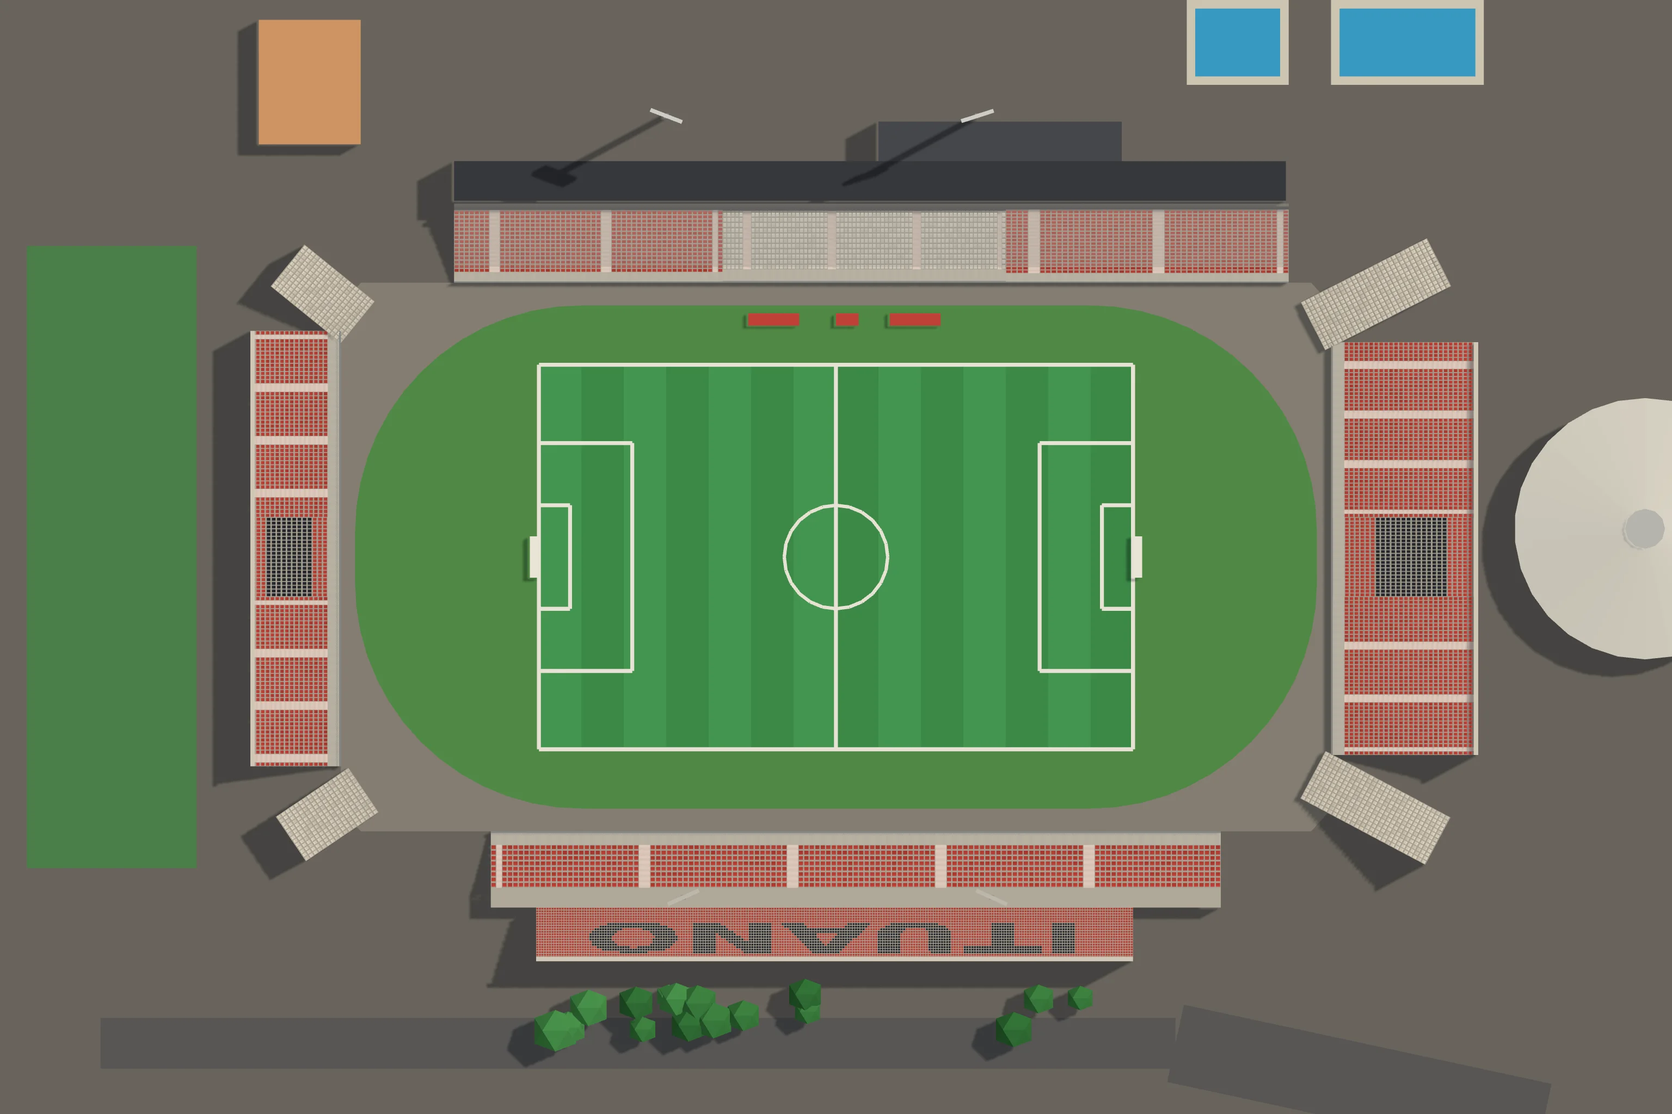
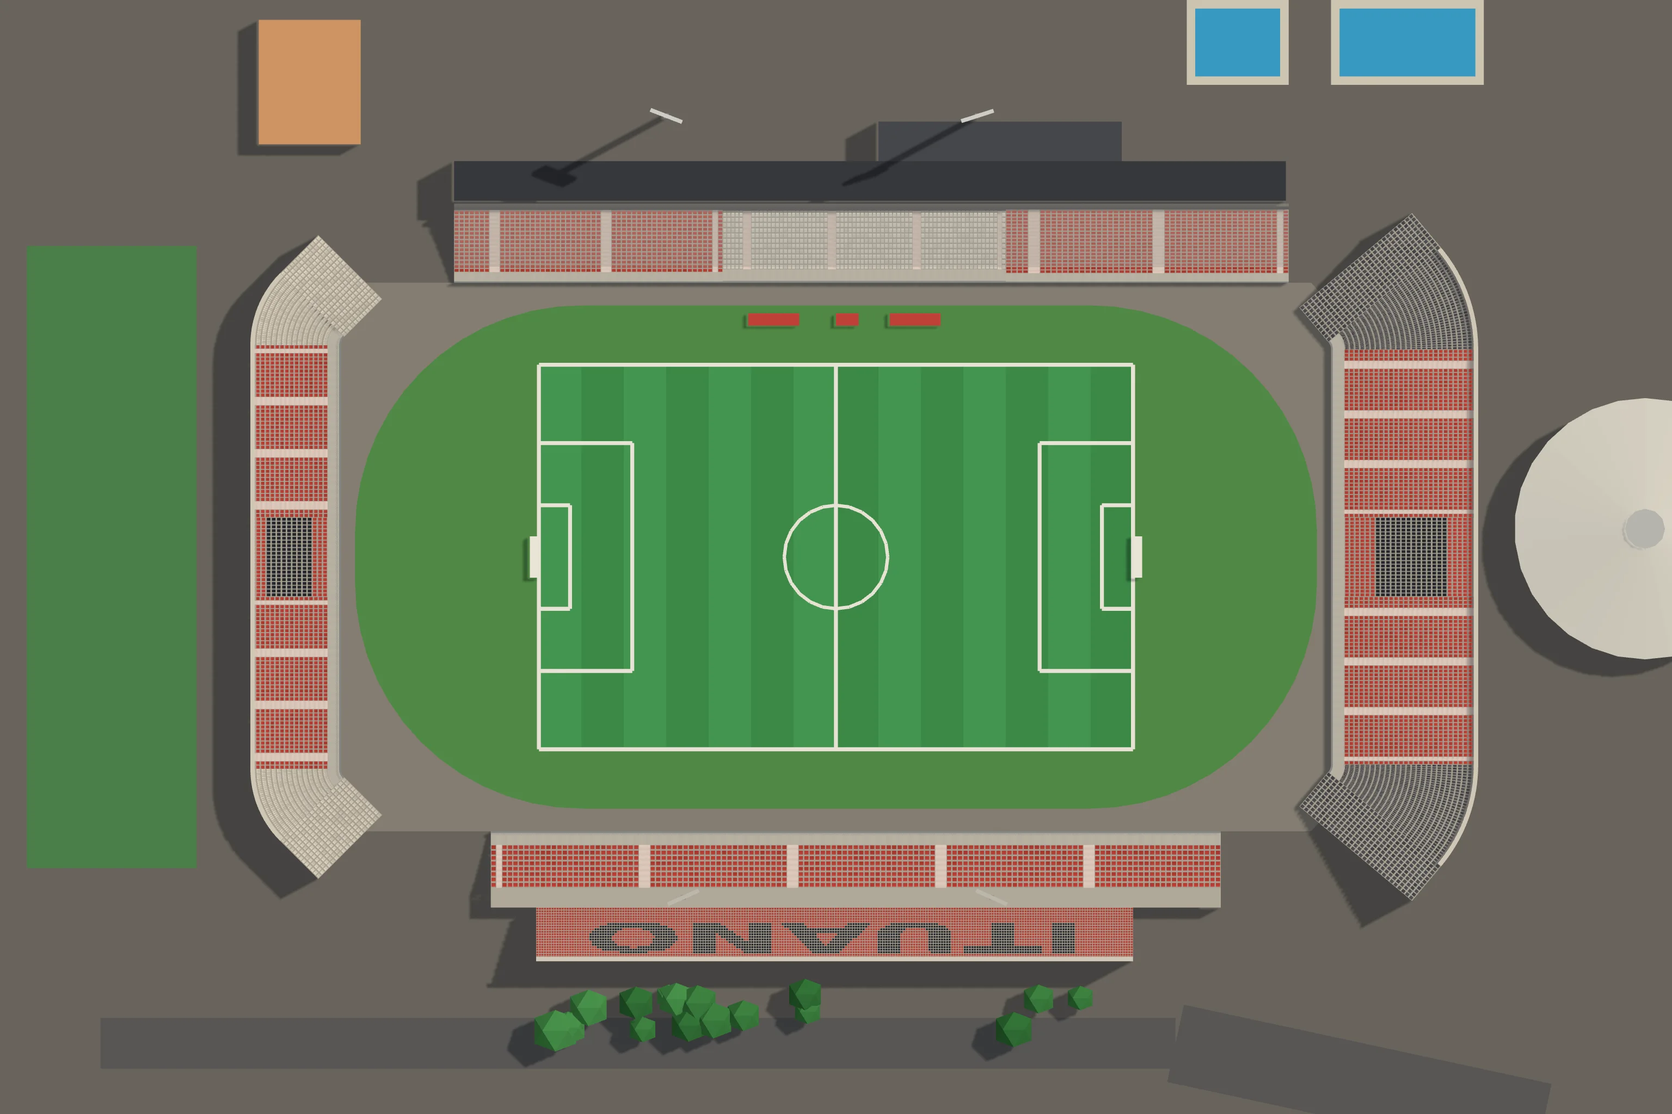
Novelli Júnior: as arquibancadas de trás dos gols como peça única, com as pontas dobradas em direção ao campo
Claude-Session: https://claude.ai/code/session_019hwwMAyyP7ZAvyq6wYTetr

diff --git a/cenario3d/dados/estadios_cenas.js b/cenario3d/dados/estadios_cenas.js
@@ -8368,8 +8368,8 @@ window.__ESTADIOS = {
    "visitante": 3
   },
   "foto": {
-   "imagem": "img/cenas/estadio_novelli_junior.webp?v=b17ea057",
-   "mascara": "384;384;384;384;384;384;384;384;384;384;384;384;384;384;384;384;384;384;384;384;384;384;384;384;384;384;384;384;384;384;384;384;384;384;384;384;384;384;384;384;384;384;384;384;384;384;384;105,191,88;105,191,88;105,191,88;105,191,88;105,191,88;105,191,88;105,191,88;105,191,88;105,191,88;105,191,30,2,56;70,1,34,191,28,4,56;69,3,33,191,26,7,55;68,5,32,191,24,9,55;67,7,31,191,22,12,54;66,10,29,191,20,14,54;66,11,28,191,18,17,53;65,13,27,191,16,19,53;64,15,25,192,14,22,52;63,243,2,24,52;64,266,54;65,263,56;66,260,58;68,83,82,92,59;69,55,136,63,61;70,49,146,56,63;71,45,152,51,65;73,41,156,47,67;74,37,162,42,69;75,34,166,38,71;57,51,168,35,73;57,49,172,31,75;57,47,176,27,77;57,46,178,59,44;57,45,180,58,44;57,43,184,56,44;57,42,186,55,44;57,41,188,54,44;57,40,190,53,44;57,39,192,52,44;57,38,194,51,44;57,37,196,50,44;57,36,198,49,44;57,35,200,48,44;57,35,200,48,44;57,34,202,47,44;57,33,204,46,44;57,32,206,45,44;57,32,206,45,44;57,31,208,44,44;57,31,208,44,44;57,30,210,43,44;57,30,210,43,44;57,29,212,42,44;57,29,212,42,44;57,28,214,41,44;57,28,214,41,44;57,27,216,40,44;57,27,216,40,44;57,27,216,40,44;57,26,218,39,44;57,26,218,39,44;57,26,218,39,44;57,25,220,38,44;57,25,220,38,44;57,25,220,38,44;57,25,220,38,44;57,25,220,38,44;57,24,222,37,44;57,24,222,37,44;57,24,222,37,44;57,24,222,37,44;57,24,222,37,44;57,24,222,37,44;57,24,222,37,44;57,24,222,37,44;57,24,222,37,44;57,24,222,37,44;57,24,222,37,44;57,24,222,37,44;57,24,222,37,44;57,24,222,37,44;57,24,222,37,44;57,24,222,37,44;57,24,222,37,44;57,24,222,37,44;57,24,222,37,44;57,24,222,37,44;57,24,222,37,44;57,24,222,37,44;57,24,222,37,44;57,24,222,37,44;57,24,222,37,44;57,24,222,37,44;57,24,222,37,44;57,24,222,37,44;57,25,220,38,44;57,25,220,38,44;57,25,220,38,44;57,25,220,38,44;57,25,220,38,44;57,26,218,39,44;57,26,218,39,44;57,26,218,39,44;57,27,216,40,44;57,27,216,40,44;57,27,216,40,44;57,28,214,41,44;57,28,214,41,44;57,29,212,42,44;57,29,212,42,44;57,30,210,43,44;57,30,210,43,44;57,31,208,44,44;57,31,208,44,44;57,32,206,45,44;57,32,206,45,44;57,33,204,46,44;57,34,202,47,44;57,35,200,48,44;57,35,200,48,44;57,36,198,49,44;57,37,196,50,44;57,38,194,51,44;57,39,192,52,44;57,40,190,53,44;57,41,188,54,44;57,42,186,21,78;57,43,184,23,77;57,45,180,27,75;78,25,178,29,74;78,26,176,32,72;78,28,172,36,70;77,31,168,40,68;75,34,166,43,66;74,37,162,47,64;72,42,156,52,62;71,45,152,56,60;69,50,146,61,58;68,56,136,67,57;66,85,82,96,55;65,241,2,23,53;65,241,3,23,52;65,241,5,21,52;66,240,7,18,53;67,12,34,167,35,15,54;67,10,36,167,37,13,54;68,8,37,167,39,10,55;69,5,39,167,41,8,55;69,4,40,167,43,5,56;70,1,42,167,44,4,56;113,167,46,1,57;113,167,104;113,167,104;113,167,104;113,167,104;113,167,104;113,167,104;113,167,104;113,167,104;113,167,104;113,167,104;113,167,104;123,137,124;123,137,124;123,137,124;123,137,124;123,137,124;123,137,124;123,137,124;123,137,124;123,137,124;123,137,124;123,137,124;384;384;384;384;384;384;384;384;384;384;384;384;384;384;384;384;384;384;384;384;384;384;384;384;384;384;384;384;384;384;384;384;384;384;384;384"
+   "imagem": "img/cenas/estadio_novelli_junior.webp?v=670985e5",
+   "mascara": "384;384;384;384;384;384;384;384;384;384;384;384;384;384;384;384;384;384;384;384;384;384;384;384;384;384;384;384;384;384;384;384;384;384;384;384;384;384;384;384;384;384;384;384;384;384;384;105,191,88;105,191,88;105,191,88;105,191,27,2,59;105,191,26,4,58;105,191,25,6,57;105,191,24,7,57;105,191,23,9,56;72,2,31,191,21,12,55;71,4,30,191,20,14,54;70,6,29,191,19,14,1,2,52;69,8,28,191,18,14,1,4,51;68,10,27,191,17,14,1,5,51;67,12,26,191,15,15,1,7,50;66,14,25,191,14,15,1,9,49;65,16,24,191,13,14,1,11,49;63,2,1,16,23,191,12,14,1,13,48;62,4,1,16,21,192,11,14,1,14,48;62,5,1,252,1,16,47;61,7,1,250,1,17,47;60,9,1,267,47;60,10,1,245,1,21,46;59,12,1,79,82,82,1,22,46;59,13,1,51,136,54,1,23,46;59,14,1,45,146,48,1,25,45;58,16,1,41,152,71,45;58,17,1,38,156,40,1,28,45;58,18,1,34,162,36,1,29,45;58,19,1,31,166,33,1,30,45;58,50,168,31,1,31,45;57,49,172,28,1,33,44;57,47,176,60,44;57,46,178,59,44;57,45,180,58,44;57,43,184,56,44;57,42,186,55,44;57,41,188,54,44;57,40,190,53,44;57,39,192,52,44;57,38,194,51,44;57,37,196,50,44;57,36,198,49,44;57,35,200,48,44;57,35,200,48,44;57,34,202,47,44;57,33,204,46,44;57,32,206,45,44;57,32,206,45,44;57,31,208,44,44;57,31,208,44,44;57,30,210,43,44;57,30,210,43,44;57,29,212,42,44;57,29,212,42,44;57,28,214,41,44;57,28,214,41,44;57,27,216,40,44;57,27,216,40,44;57,27,216,40,44;57,26,218,39,44;57,26,218,39,44;57,26,218,39,44;57,25,220,38,44;57,25,220,38,44;57,25,220,38,44;57,25,220,38,44;57,25,220,38,44;57,24,222,37,44;57,24,222,37,44;57,24,222,37,44;57,24,222,37,44;57,24,222,37,44;57,24,222,37,44;57,24,222,37,44;57,24,222,37,44;57,24,222,37,44;57,24,222,37,44;57,24,222,37,44;57,24,222,37,44;57,24,222,37,44;57,24,222,37,44;57,24,222,37,44;57,24,222,37,44;57,24,222,37,44;57,24,222,37,44;57,24,222,37,44;57,24,222,37,44;57,24,222,37,44;57,24,222,37,44;57,24,222,37,44;57,24,222,37,44;57,24,222,37,44;57,24,222,37,44;57,24,222,37,44;57,24,222,37,44;57,25,220,38,44;57,25,220,38,44;57,25,220,38,44;57,25,220,38,44;57,25,220,38,44;57,26,218,39,44;57,26,218,39,44;57,26,218,39,44;57,27,216,40,44;57,27,216,40,44;57,27,216,40,44;57,28,214,41,44;57,28,214,41,44;57,29,212,42,44;57,29,212,42,44;57,30,210,43,44;57,30,210,43,44;57,31,208,44,44;57,31,208,44,44;57,32,206,45,44;57,32,206,45,44;57,33,204,46,44;57,34,202,47,44;57,35,200,48,44;57,35,200,48,44;57,36,198,49,44;57,37,196,50,44;57,38,194,51,44;57,39,192,52,44;57,40,190,53,44;57,41,188,54,44;57,42,186,55,44;57,43,184,56,44;57,45,180,58,44;57,46,178,59,44;57,47,176,60,44;57,49,172,28,1,33,44;58,50,168,31,1,31,45;58,19,1,31,166,33,1,30,45;58,18,1,34,162,36,1,29,45;58,17,1,38,156,40,1,28,45;58,16,1,41,152,71,45;59,14,1,45,146,48,1,25,45;59,13,1,51,136,54,1,23,46;59,12,1,79,82,82,1,22,46;60,10,1,245,1,21,46;60,9,1,267,47;61,7,1,250,1,17,47;62,5,1,252,1,16,47;62,4,1,16,30,167,27,14,1,14,48;63,2,1,16,31,167,28,14,1,13,48;65,16,32,167,29,14,1,11,49;66,14,33,167,30,15,1,9,49;67,12,34,167,31,15,1,7,50;68,10,35,167,33,14,1,5,51;69,8,36,167,34,14,1,4,51;70,6,37,167,35,14,1,2,52;71,4,38,167,36,14,54;72,2,39,167,37,12,55;113,167,39,9,56;113,167,40,7,57;113,167,41,6,57;113,167,42,4,58;113,167,43,2,59;113,167,104;113,167,104;113,167,104;123,137,124;123,137,124;123,137,124;123,137,124;123,137,124;123,137,124;123,137,124;123,137,124;123,137,124;123,137,124;123,137,124;384;384;384;384;384;384;384;384;384;384;384;384;384;384;384;384;384;384;384;384;384;384;384;384;384;384;384;384;384;384;384;384;384;384;384;384"
   },
   "cena": {
    "nome": "Novelli Júnior",

diff --git a/cenario3d/planta.html b/cenario3d/planta.html
@@ -289,24 +289,24 @@ button:focus-visible, input:focus-visible { outline: 2px solid var(--selecao); o
 
 <script type="module">
 import * as THREE from 'https://cdn.jsdelivr.net/npm/three@0.160.0/build/three.module.min.js';
-import { planoDaCasa, montarCasa, juntarBlocos, lugarDoDecalque, placasDoLote, segmentosDoMuro, carrosDoEstacionamento, portaoDoEstacionamento } from './js/casas3d.js?v=6a98b35c98';
-import { montarModelos } from './js/modelos3d.js?v=6a98b35c98';
-import { moldeDaPeca, comTransformador } from './js/props3d.js?v=6a98b35c98';
-import { ATLAS } from './js/modelos_atlas.js?v=6a98b35c98';
-import { Construtor, sorteio } from './js/construtor3d.js?v=6a98b35c98';
-import { gerarProposta, MAPAS, MAPA_DO_PORTE, RUA, LONGE_DO_ESTADIO_M, cisaoDaPraca, VAO_CIDADES_M, PRAIA_A_MAIS } from './js/proposta.js?v=6a98b35c98';
-import { montarSede, nivelQueCabe } from './js/sede3d.js?v=6a98b35c98';
-import { onibus as onibusDetalhe, juntar as juntarDetalhe } from './js/detalhe3d.js?v=6a98b35c98';
-import { montarLoteDeVeraneio, plantaDoLote, festaNoMundo, noMundoDoLote, cenaDaFesta, detalheDaCasaDaFesta } from './js/veraneio3d.js?v=6a98b35c98';
-import { montarCaravana, cenaDaCaravana } from './js/caravana3d.js?v=6a98b35c98';
-import { montarEstacao, montarTunel, montarCarro, TREM } from './js/metro3d.js?v=6a98b35c98';
-import { montarShopping, montarDelegacia, montarPraca, montarIgreja, montarEscola, montarHospital } from './js/equip3d.js?v=6a98b35c98';
-import { montarEquipAntigo, TIPOS_ANTIGOS } from './js/equip_antigo3d.js?v=6a98b35c98';
-import { PECAS_PRAIA, montarPecaDaPraia } from './js/praia3d.js?v=6a98b35c98';
-import { ESPECIES_LP, FLORA_LP, montarArvoreLowpoly, montarAsDez, facesDaArvore, especieLowpolyDe } from './js/arvores_lowpoly.js?v=6a98b35c98';
-import { plantarMato, montarMato, LONGE_M, DENSIDADE, LADRILHO_M } from './js/mato3d.js?v=6a98b35c98';
-import { ESTADIOS_JOGO, montarEstadioJogo, glbDoEstadio, cortarEstadio, plantaDoEstadio, modeloDaLotacao, nomeDoLetreiro, nomeComAcento, marcaDoEstadio, BOCAS_DOS_PORTOES, BILHETERIAS_DA_RUA } from './js/estadios3d.js?v=6a98b35c98';
-import { PECAS_AMBULANTES, montarAmbulante } from './js/ambulantes3d.js?v=6a98b35c98';
+import { planoDaCasa, montarCasa, juntarBlocos, lugarDoDecalque, placasDoLote, segmentosDoMuro, carrosDoEstacionamento, portaoDoEstacionamento } from './js/casas3d.js?v=662f869a39';
+import { montarModelos } from './js/modelos3d.js?v=662f869a39';
+import { moldeDaPeca, comTransformador } from './js/props3d.js?v=662f869a39';
+import { ATLAS } from './js/modelos_atlas.js?v=662f869a39';
+import { Construtor, sorteio } from './js/construtor3d.js?v=662f869a39';
+import { gerarProposta, MAPAS, MAPA_DO_PORTE, RUA, LONGE_DO_ESTADIO_M, cisaoDaPraca, VAO_CIDADES_M, PRAIA_A_MAIS } from './js/proposta.js?v=662f869a39';
+import { montarSede, nivelQueCabe } from './js/sede3d.js?v=662f869a39';
+import { onibus as onibusDetalhe, juntar as juntarDetalhe } from './js/detalhe3d.js?v=662f869a39';
+import { montarLoteDeVeraneio, plantaDoLote, festaNoMundo, noMundoDoLote, cenaDaFesta, detalheDaCasaDaFesta } from './js/veraneio3d.js?v=662f869a39';
+import { montarCaravana, cenaDaCaravana } from './js/caravana3d.js?v=662f869a39';
+import { montarEstacao, montarTunel, montarCarro, TREM } from './js/metro3d.js?v=662f869a39';
+import { montarShopping, montarDelegacia, montarPraca, montarIgreja, montarEscola, montarHospital } from './js/equip3d.js?v=662f869a39';
+import { montarEquipAntigo, TIPOS_ANTIGOS } from './js/equip_antigo3d.js?v=662f869a39';
+import { PECAS_PRAIA, montarPecaDaPraia } from './js/praia3d.js?v=662f869a39';
+import { ESPECIES_LP, FLORA_LP, montarArvoreLowpoly, montarAsDez, facesDaArvore, especieLowpolyDe } from './js/arvores_lowpoly.js?v=662f869a39';
+import { plantarMato, montarMato, LONGE_M, DENSIDADE, LADRILHO_M } from './js/mato3d.js?v=662f869a39';
+import { ESTADIOS_JOGO, montarEstadioJogo, glbDoEstadio, cortarEstadio, plantaDoEstadio, modeloDaLotacao, nomeDoLetreiro, nomeComAcento, marcaDoEstadio, BOCAS_DOS_PORTOES, BILHETERIAS_DA_RUA } from './js/estadios3d.js?v=662f869a39';
+import { PECAS_AMBULANTES, montarAmbulante } from './js/ambulantes3d.js?v=662f869a39';
 
 const $ = id => document.getElementById(id);
 const aviso = $('aviso');
@@ -323,25 +323,25 @@ function carregarScript(src) {
 }
 window.TO = window.TO || { dados: {} };
 try {
-  await carregarScript('dados/torcidas.js?v=6a98b35c98');
-  await carregarScript('dados/times.js?v=6a98b35c98');
-  await carregarScript('dados/cena_estadio.js?v=6a98b35c98');
-  await carregarScript('dados/cidades.js?v=6a98b35c98');
-  await carregarScript('dados/estadios.js?v=6a98b35c98');
-  await carregarScript('dados/escudos.js?v=6a98b35c98');
+  await carregarScript('dados/torcidas.js?v=662f869a39');
+  await carregarScript('dados/times.js?v=662f869a39');
+  await carregarScript('dados/cena_estadio.js?v=662f869a39');
+  await carregarScript('dados/cidades.js?v=662f869a39');
+  await carregarScript('dados/estadios.js?v=662f869a39');
+  await carregarScript('dados/escudos.js?v=662f869a39');
   /* o manifesto das faixas de verdade (a arte do dono, 29/09/2026): a arquibancada estende a da torcida */
-  await carregarScript('dados/faixas.js?v=6a98b35c98').catch(() => {});
+  await carregarScript('dados/faixas.js?v=662f869a39').catch(() => {});
   /* O DOMÍNIO DOS BAIRROS (o dono, 30/09/2026): as sedes repetidas num
      bairro saem espalhadas (nos dados, na carga) e os bares ganham o
      bairro deles — o mesmo módulo do jogo (js/mundo/dominio.js) */
-  await carregarScript('js/dominio.js?v=6a98b35c98').catch(() => {});
+  await carregarScript('js/dominio.js?v=662f869a39').catch(() => {});
 } catch (e) {
   aviso.textContent = 'A planta da cidade não carregou (' + e.message + '). Recarregue a página.';
   throw e;
 }
 /* os PNG dos escudos, embutidos (o montar.sh gera): sem o arquivo, o
    caminho vai direto pra img/escudos/ */
-await carregarScript('dados/escudos_embutidos.js?v=6a98b35c98').catch(() => {});
+await carregarScript('dados/escudos_embutidos.js?v=662f869a39').catch(() => {});
 const P = TO.dados.plantaEstadio, K = P.CIDADE, M = P.METRO, CALC = K.CALC;
 /* o mapa da vez (o pequeno, o médio ou o grande, montado pra praça
    escolhida): quem monta é usarMapa, lá embaixo */

diff --git a/cenario3d/js/jogo2d.js b/cenario3d/js/jogo2d.js
@@ -17,7 +17,7 @@
    cartão da partida cai perto da hora da bola e nada do que conta o
    placar passa na frente dele.
    ========================================================= */
-import { CASCA } from './jogo_casca.js?v=6a98b35c98';
+import { CASCA } from './jogo_casca.js?v=662f869a39';
 
 const carregarScript = src => new Promise((ok, erro) => {
   const s = document.createElement('script');
@@ -31,17 +31,17 @@ async function montarJogo() {
   caixa.innerHTML = CASCA;
   while (caixa.firstChild) document.body.appendChild(caixa.firstChild);
   /* os escudos, as fotos das praças e as bandeiras embutidos (o `IMG()` do jogo procura aqui antes do caminho) */
-  await carregarScript('dados/imagens_jogo.js?v=6a98b35c98').catch(() => {});
+  await carregarScript('dados/imagens_jogo.js?v=662f869a39').catch(() => {});
   /* os estádios low-poly das cenas (ferramentas/estadios/assar.js): antes do jogo, que monta as cenas quando carrega */
-  await carregarScript('dados/estadios_cenas.js?v=6a98b35c98').catch(() => {});
+  await carregarScript('dados/estadios_cenas.js?v=662f869a39').catch(() => {});
   /* sem o rolo do feed: a tela entre os jogos é o portal */
   window.TO = window.TO || {};
   TO.semFeed = true;
-  await carregarScript('js/jogo.js?v=6a98b35c98');
-  await carregarScript('js/portal.js?v=6a98b35c98').catch(err => console.error('o portal não carregou:', err));
+  await carregarScript('js/jogo.js?v=662f869a39');
+  await carregarScript('js/portal.js?v=662f869a39').catch(err => console.error('o portal não carregou:', err));
   /* o boneco das cenas de imagem (os dois níveis afinados, em base64) */
-  if (!TO.dados.bonecoPertoGLB) await carregarScript('dados/boneco_glb.js?v=6a98b35c98').catch(() => {});
-  await import('./bonecos3_global.js?v=6a98b35c98').catch(err => console.error('o boneco das cenas não carregou:', err));
+  if (!TO.dados.bonecoPertoGLB) await carregarScript('dados/boneco_glb.js?v=662f869a39').catch(() => {});
+  await import('./bonecos3_global.js?v=662f869a39').catch(err => console.error('o boneco das cenas não carregou:', err));
   ligar();
 }
 

diff --git a/cenario3d/jogo.html b/cenario3d/jogo.html
@@ -9,16 +9,16 @@
 <link rel="preconnect" href="https://fonts.googleapis.com">
 <link rel="preconnect" href="https://fonts.gstatic.com" crossorigin>
 <link rel="stylesheet" href="https://fonts.googleapis.com/css2?family=Barlow+Semi+Condensed:wght@500;600;700&family=Barlow:wght@400;500;600&family=IBM+Plex+Mono:wght@400;500&display=swap">
-<link rel="stylesheet" href="css/jogo.css?v=6a98b35c98">
-<link rel="stylesheet" href="css/jogo3d.css?v=6a98b35c98">
-<link rel="stylesheet" href="css/portal.css?v=6a98b35c98">
-<link rel="stylesheet" href="css/telas3d.css?v=6a98b35c98">
+<link rel="stylesheet" href="css/jogo.css?v=662f869a39">
+<link rel="stylesheet" href="css/jogo3d.css?v=662f869a39">
+<link rel="stylesheet" href="css/portal.css?v=662f869a39">
+<link rel="stylesheet" href="css/telas3d.css?v=662f869a39">
 <style>
 [hidden] { display: none !important; }
 html, body { height: 100%; margin: 0; }
 </style>
 </head>
 <body class="jogo3d">
-<script type="module" src="js/jogo2d.js?v=6a98b35c98"></script>
+<script type="module" src="js/jogo2d.js?v=662f869a39"></script>
 </body>
 </html>

diff --git a/cenario3d/js/casas3d.js b/cenario3d/js/casas3d.js
@@ -60,10 +60,10 @@
    avançam (`rec`), e o letreiro, a pixação e a falha de reboco do
    bairro vão pro plano dessa parede, não pro da divisa.
    ========================================================= */
-import { Construtor, METRO, mureta, toldo, arSplit, sorteio } from './construtor3d.js?v=6a98b35c98';
-import { ATLAS } from './modelos_atlas.js?v=6a98b35c98';
+import { Construtor, METRO, mureta, toldo, arSplit, sorteio } from './construtor3d.js?v=662f869a39';
+import { ATLAS } from './modelos_atlas.js?v=662f869a39';
 /* as lojas do assalto (lojas3d.js): modelos de lote como os outros */
-import { TIPOS_LOJA, REC_LOJA, placaDaLoja } from './lojas3d.js?v=6a98b35c98';
+import { TIPOS_LOJA, REC_LOJA, placaDaLoja } from './lojas3d.js?v=662f869a39';
 
 /* o arquivo de cada folha, pro bairro montar o material dele */
 export const arquivoDaFolha = folha => ATLAS[folha].arquivo;

diff --git a/cenario3d/js/ambulantes3d.js b/cenario3d/js/ambulantes3d.js
@@ -27,8 +27,8 @@
    que a planta acha o lugar dela na calçada do estádio. `sol`: o meio e
    o raio da copa ([x, z, r]), que o mapa desenha de perto.
    ========================================================= */
-import { Construtor, noMundo, placasNoMundo, sorteio, esfera, unit } from './construtor3d.js?v=6a98b35c98';
-import { Lugar, barra, tubo, cilindro, bloco, pano, toro, guardaSol, cadeiraPlastica, isopor, banqueta, CORES_SOL } from './praia3d.js?v=6a98b35c98';
+import { Construtor, noMundo, placasNoMundo, sorteio, esfera, unit } from './construtor3d.js?v=662f869a39';
+import { Lugar, barra, tubo, cilindro, bloco, pano, toro, guardaSol, cadeiraPlastica, isopor, banqueta, CORES_SOL } from './praia3d.js?v=662f869a39';
 
 const AQUI = Lugar();
 const escolha = (rnd, lista) => lista[Math.floor(rnd() * lista.length) % lista.length];

diff --git a/cenario3d/js/praia3d.js b/cenario3d/js/praia3d.js
@@ -36,8 +36,8 @@
    cadeira e a mesa de plástico) servem também os ambulantes da porta do
    estádio (ambulantes3d.js), na mesma folha.
    ========================================================= */
-import { Construtor, METRO, lerp, sub, soma, esc, unit, pv, noMundo, placasNoMundo, sorteio, varrer, esfera } from './construtor3d.js?v=6a98b35c98';
-import { montarArvoreLowpoly } from './arvores_lowpoly.js?v=6a98b35c98';
+import { Construtor, METRO, lerp, sub, soma, esc, unit, pv, noMundo, placasNoMundo, sorteio, varrer, esfera } from './construtor3d.js?v=662f869a39';
+import { montarArvoreLowpoly } from './arvores_lowpoly.js?v=662f869a39';
 
 const ALTO = [0, 1, 0];
 const escolha = (rnd, lista) => lista[Math.floor(rnd() * lista.length) % lista.length];

diff --git a/cenario3d/js/modelos3d.js b/cenario3d/js/modelos3d.js
@@ -32,8 +32,8 @@
    requadro da janela, toldo, ar-condicionado. O resto é pintura.
    ========================================================= */
 import * as THREE from 'https://cdn.jsdelivr.net/npm/three@0.160.0/build/three.module.min.js';
-import { ATLAS } from './modelos_atlas.js?v=6a98b35c98';
-import { Construtor, METRO, lerp, sub, soma, esc, pv, pe, unit, recuoPoligono, mureta, toldo, arSplit } from './construtor3d.js?v=6a98b35c98';
+import { ATLAS } from './modelos_atlas.js?v=662f869a39';
+import { Construtor, METRO, lerp, sub, soma, esc, pv, pe, unit, recuoPoligono, mureta, toldo, arSplit } from './construtor3d.js?v=662f869a39';
 
 /* =======================================================
    1. A IGREJA MATRIZ

diff --git a/cenario3d/js/props3d.js b/cenario3d/js/props3d.js
@@ -26,8 +26,8 @@
    poste vira uma haste de longe; o resto, que é miúdo, some.
    ========================================================= */
 import * as THREE from 'https://cdn.jsdelivr.net/npm/three@0.160.0/build/three.module.min.js';
-import { ATLAS } from './modelos_atlas.js?v=6a98b35c98';
-import { Construtor, METRO, lerp } from './construtor3d.js?v=6a98b35c98';
+import { ATLAS } from './modelos_atlas.js?v=662f869a39';
+import { Construtor, METRO, lerp } from './construtor3d.js?v=662f869a39';
 
 /* as cores que o vértice dá pro que sai claro na folha */
 const COR_CESTO = ['#6aa33a', '#d2b53a', '#3f82ad', '#8b6a3c', '#b8452f'];

diff --git a/cenario3d/js/mato3d.js b/cenario3d/js/mato3d.js
@@ -19,8 +19,8 @@
 
    Tudo em metros; `noMundo` converte. A mesma semente dá o mesmo mato.
    ========================================================= */
-import { METRO, noMundo, sorteio } from './construtor3d.js?v=6a98b35c98';
-import { facesDaArvore, especieLowpolyDe } from './arvores_lowpoly.js?v=6a98b35c98';
+import { METRO, noMundo, sorteio } from './construtor3d.js?v=662f869a39';
+import { facesDaArvore, especieLowpolyDe } from './arvores_lowpoly.js?v=662f869a39';
 
 /* a área de chão de cada árvore (m²), por lugar */
 export const DENSIDADE = { mata: 70, cerrado: 200, caatinga: 150, sul: 90, praia: 120, cidade: 250 };

diff --git a/cenario3d/js/bonecos3_global.js b/cenario3d/js/bonecos3_global.js
@@ -14,7 +14,7 @@
    DOMContentLoaded: quem usa (a ponte, numa cena aberta pelo jogador)
    chega muito depois.
    ========================================================= */
-import { montar, desenharDeCima, desenharVitrine, limparDeCima, fotoDoTrofeu, fotoDaBriga, fotoDaCena, perdeu, bonecos } from './bonecos3_cena.js?v=6a98b35c98';
+import { montar, desenharDeCima, desenharVitrine, limparDeCima, fotoDoTrofeu, fotoDaBriga, fotoDaCena, perdeu, bonecos } from './bonecos3_cena.js?v=662f869a39';
 
 window.TO = window.TO || {};
 TO.diaJogo = TO.diaJogo || {};

diff --git a/cenario3d/js/bonecos3_cena.js b/cenario3d/js/bonecos3_cena.js
@@ -103,7 +103,7 @@
       numa fase sorteada (quem sai junto não sai no mesmo pé).
    ========================================================= */
 import * as THREE from 'https://cdn.jsdelivr.net/npm/three@0.160.0/build/three.module.min.js';
-import { GLTFLoader, SkeletonUtils } from './GLTFLoader.js?v=6a98b35c98';
+import { GLTFLoader, SkeletonUtils } from './GLTFLoader.js?v=662f869a39';
 
 /* onde o modelo mora, quando não vem embutido em base64: o detalhado
    (o do Blender) e os dois níveis afinados dele (ferramentas/afinar_boneco.mjs) */
